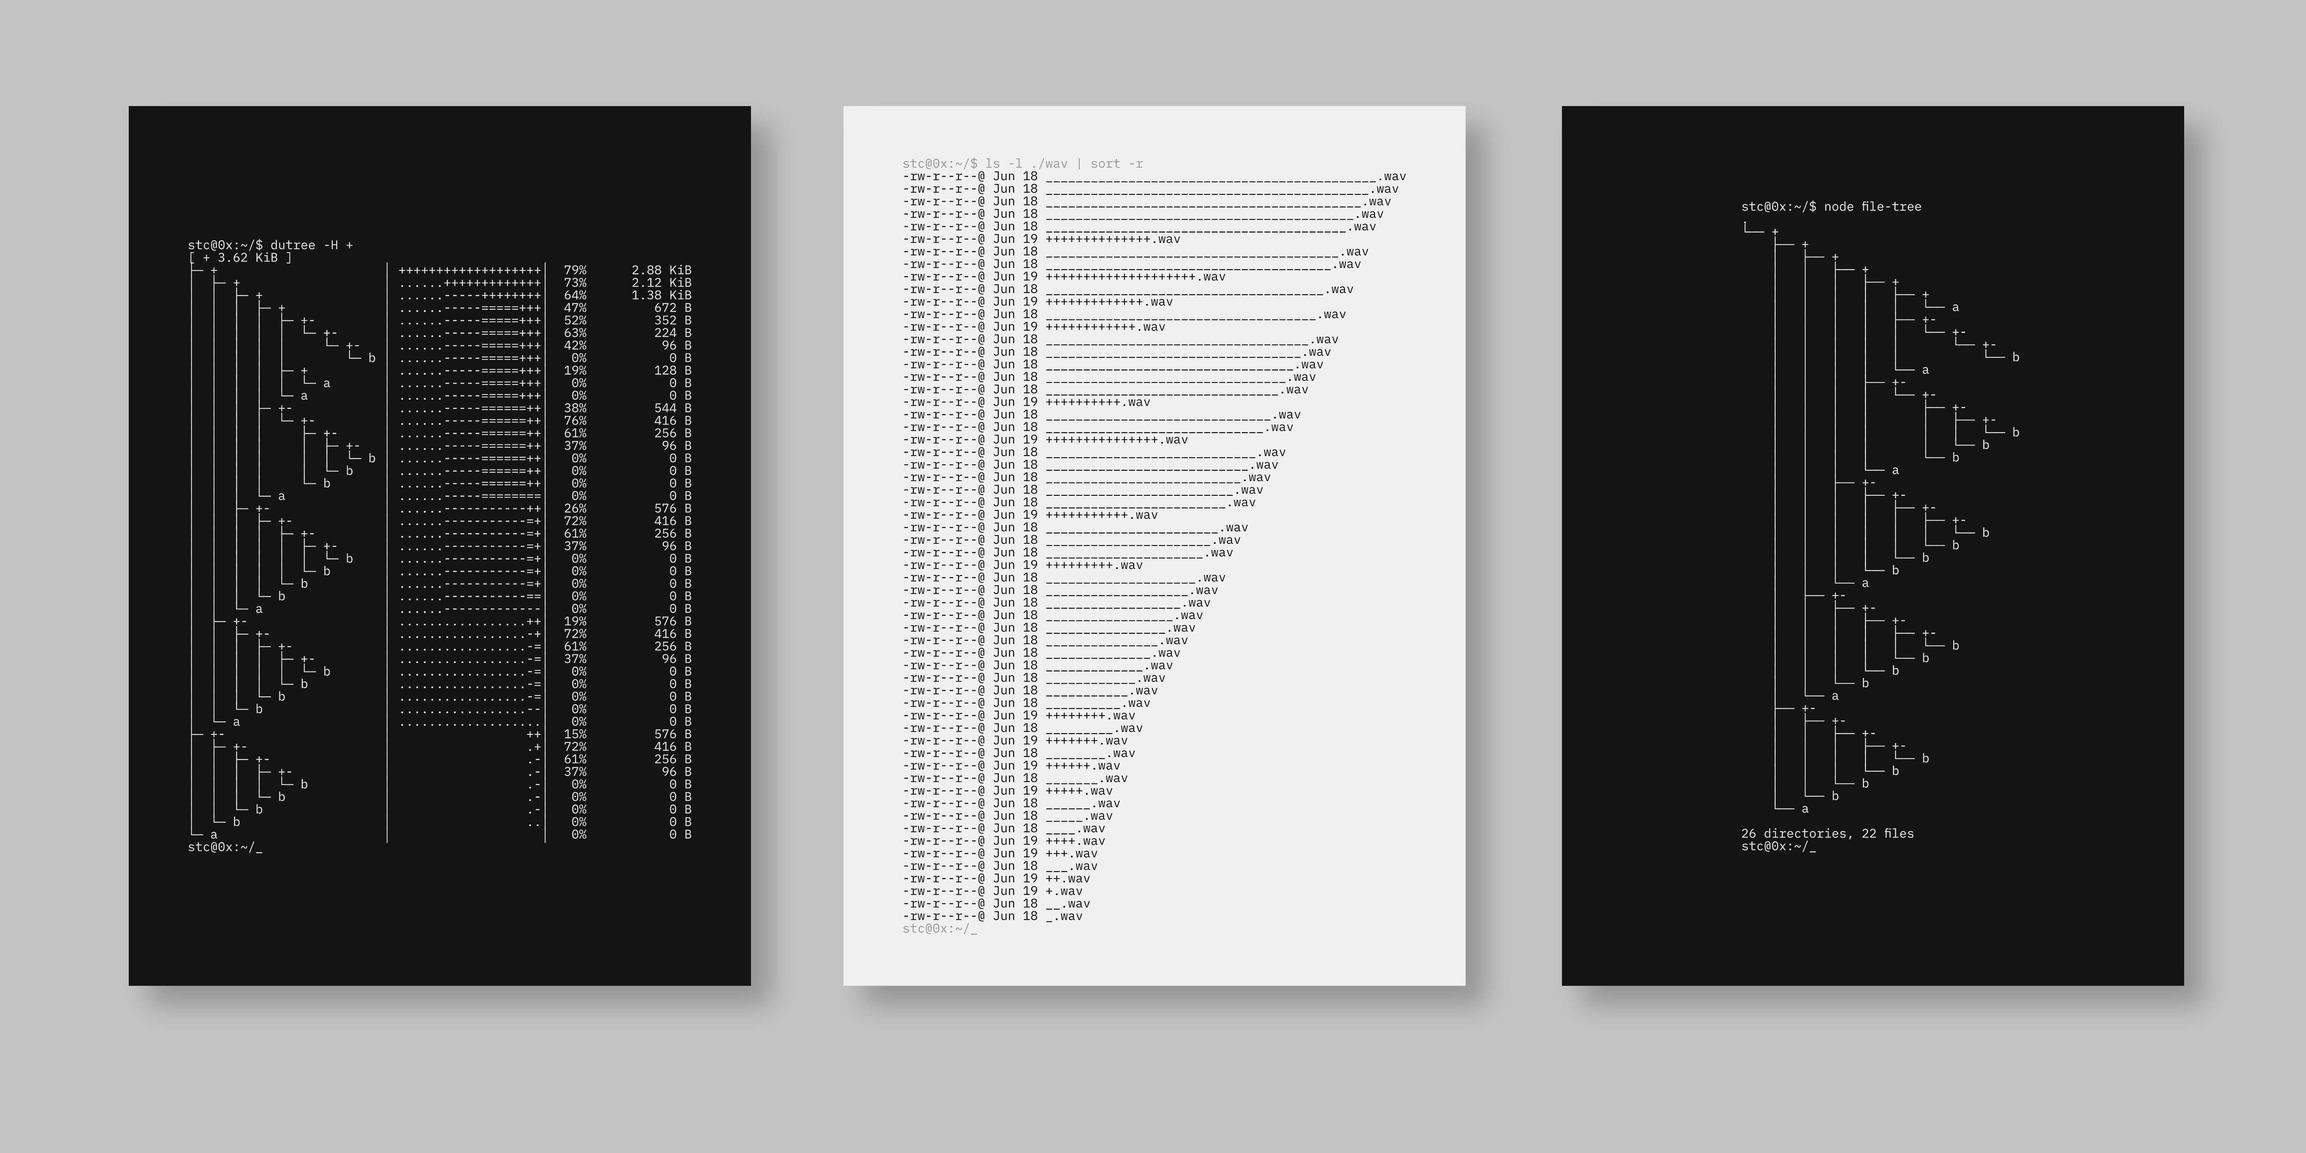
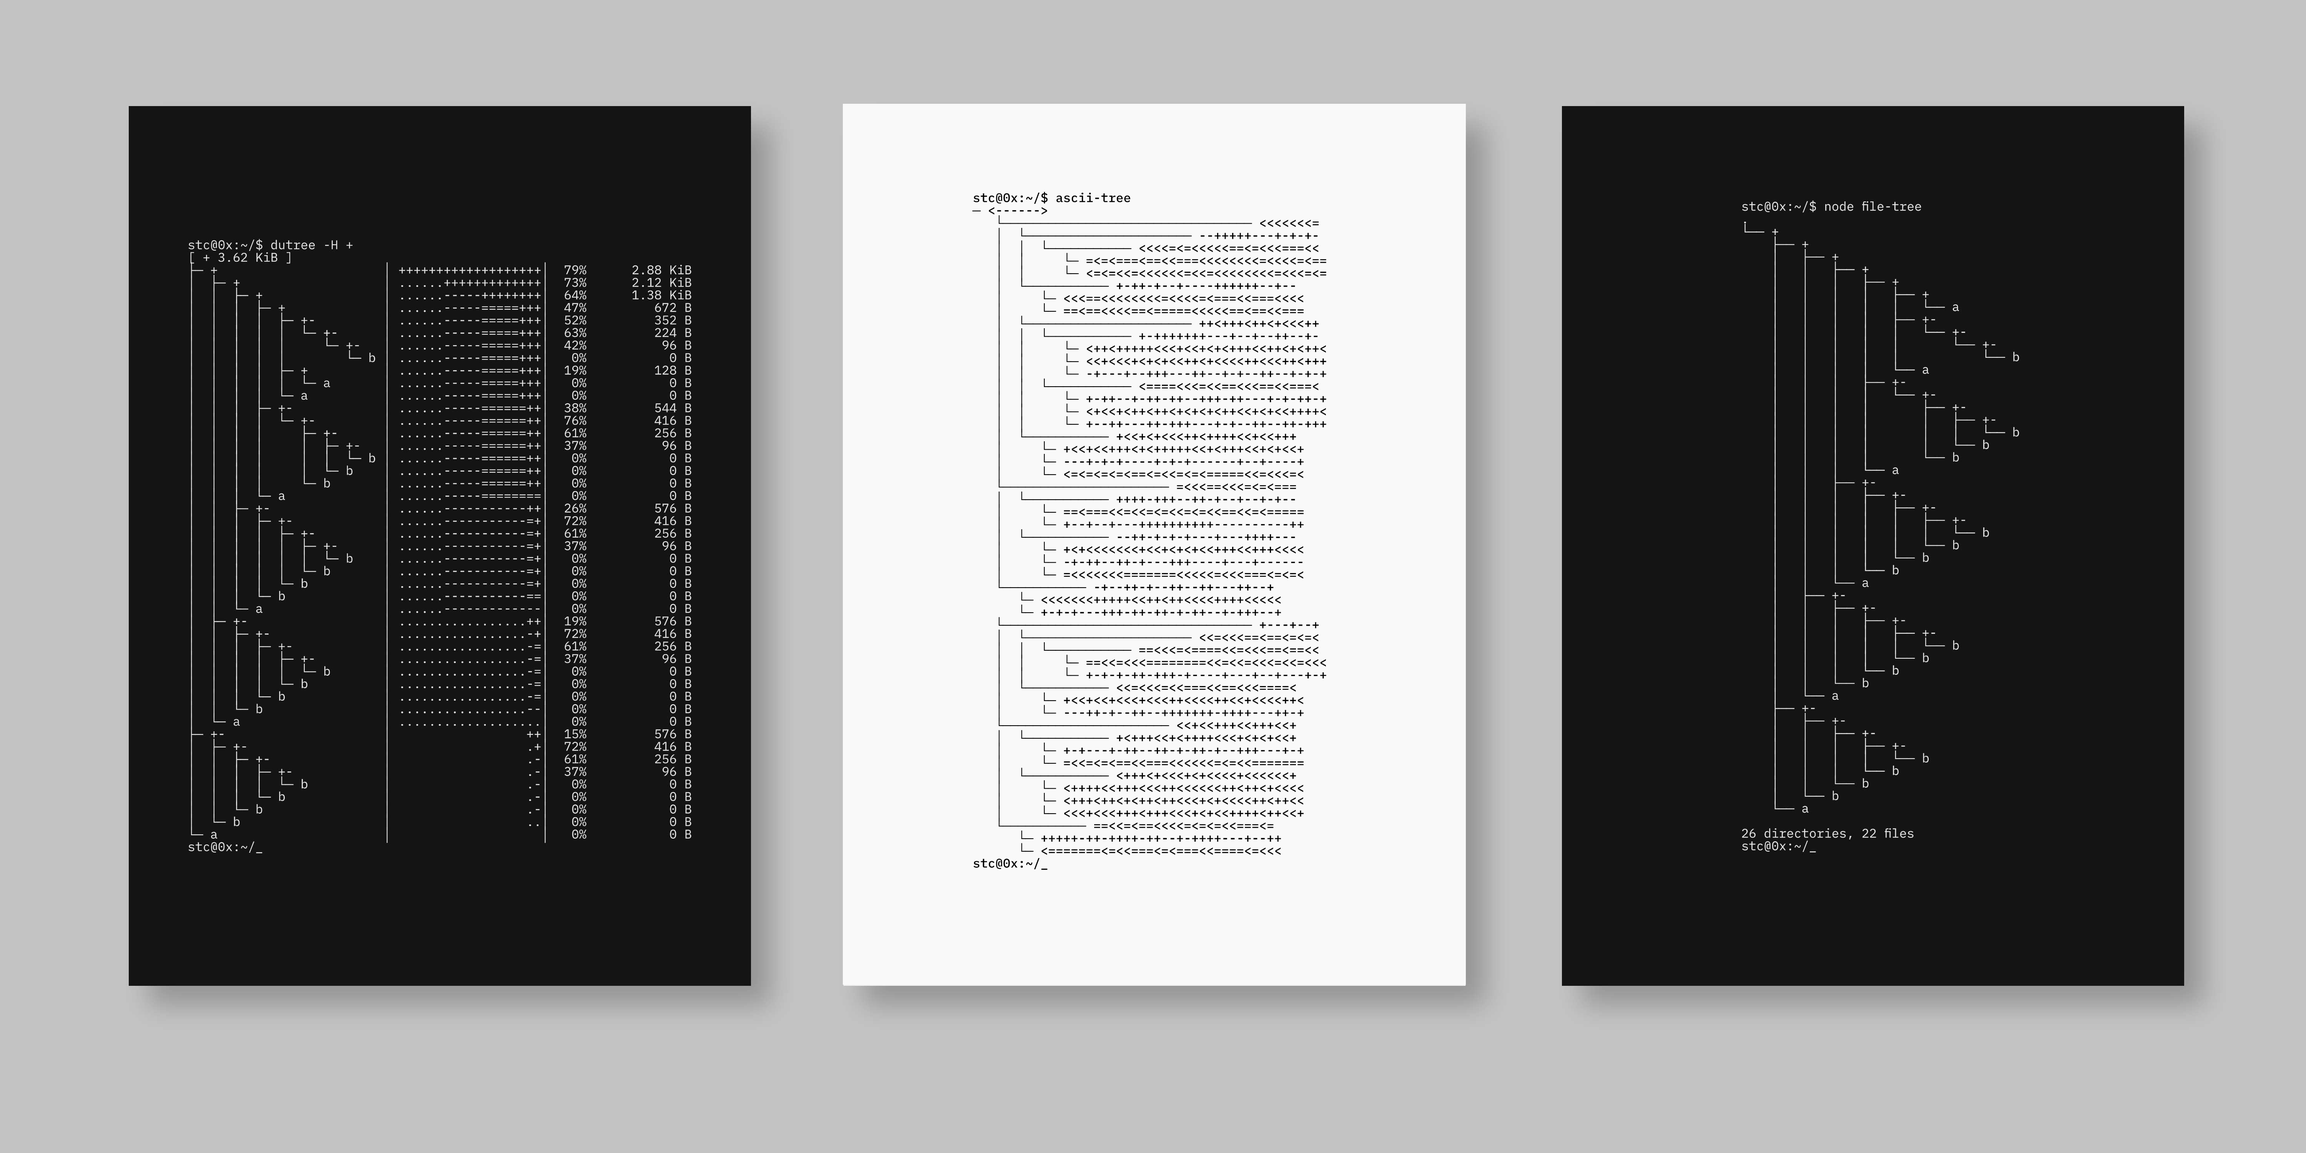
adding list sort

Changed region(s): [[0.4052, 0.124, 0.5922, 0.806]]

diff --git a/index.html b/index.html
@@ -1,183 +1,216 @@
 <!DOCTYPE html>
 <html lang="en">
-  <head>
-    <link rel="icon" type="image/x-icon" href="./assets/favicon.ico">
-    <meta charset="UTF-8">
-    <meta name="viewport" content="width=device-width, initial-scale=1.0">
-    <meta http-equiv="X-UA-Compatible" content="ie=edge">
-    <title>terminal-drawings</title>
-    <link rel="stylesheet" href="./assets/terminal.min.css" />
-    <link rel="stylesheet" href="./assets/normalize.css" />
 
-    <style>
-        .components-grid {
-          display: grid;
-          grid-column-gap: 1.4em;
-          grid-template-columns: auto;
-          grid-template-rows: auto;
-        }
-    
-        .image-grid {
-          display: grid;
-          grid-template-rows: auto;
-          grid-gap: 1em;
-          grid-template-columns: repeat(
-            auto-fit,
-            minmax(calc(var(--page-width) / 12), 1fr)
-          );
-        }
-    
-        @media only screen and (min-width: 70em) {
-          .components-grid {
-            grid-template-columns: 3fr 9fr;
-          }
-    
-          .components-grid aside {
-            position: sticky;
-            top: calc(var(--global-space) * 2);
-          }
-        }
+<head>
+  <link rel="icon" type="image/x-icon" href="./assets/favicon.ico">
+  <meta charset="UTF-8">
+  <meta name="viewport" content="width=device-width, initial-scale=1.0">
+  <meta http-equiv="X-UA-Compatible" content="ie=edge">
+  <title>terminal-drawings</title>
+  <link rel="stylesheet" href="./assets/terminal.min.css" />
+  <link rel="stylesheet" href="./assets/normalize.css" />
 
-        .desc {
-          color:#999;
-        }
-      </style>
-  </head>
-  <body>
-    <div class="container">
-        <div class="terminal-nav">
-            <header class="terminal-logo">
-                <div class="logo terminal-prompt"><a href="http://stc.github.io/terminal-drawings" class="no-style">Terminal Drawings</a></div>
-            </header>
-        </div>
-        <div class="container">
-            <p>Algorithmic plotter artworks, created with a command-line interface</p>
-            <hr />
-            <section>
-                <p><img src="./assets/imgs/triptych-view.jpg"/></p>
-                <p>
-                  Terminal Drawings are a collection of machine drawn images that involve text based simulations to represent associative space. As the computer terminal is a low-level ontological tool for interfacing the real world with computational landscapes, these series resemble the performative mechanics of such gateways. 
-                </p>
-                <p>
-                  Given that digital information doesn't inherently exist in physical space, we can use any structure to illustrate relationships between files, folders, thoughts and other conceptual entities.
-                </p>
-                <hr />
-                <p><img src="./assets/imgs/closeup-view.jpg"/></p>
-                <p>
-                  Artificial memory architectures often grapple with the dichotomy between associative and spatial memory paradigms. While spatial memory frameworks prioritize the organization of information in physical or abstract spatial arrangements, reflecting the human brain's propensity for spatial cognition, associative memory models prioritize the interconnectedness of information, emphasizing the strength of relationships between data points.
-                </p>
-                <p>  
-                  Although the drawings are based on text-based characters and operator symbols from low-level computer code, their structures escape verbal determinations and function as an absorption surface for conventional formulae. Without relying on language, form becomes the defining element— a gesture that shapes hybrid ontologies of existential space.
-                </p>
-                <hr />
-                <p>
-                  <h2>The Collection</h2>
-                  <div class="image-grid">
-                    <div width="auto" height="auto">
-                      <a style="border: none;"><img id="img1" src="./assets/imgs/previews/light/1.jpg"/></a>
-                      <i>Recursive Tree (a)</i> <a onclick="changeImage('img1')">+/-</a><br>
-                      <p class="desc">Reserved</p>
-                    </div>
-                    <div width="auto" height="auto"><a style="border: none;"><img id="img2" src="./assets/imgs/previews/light/2.jpg"/></a>
-                      <i>ASCII Tree (a)</i> <a onclick="changeImage('img2')">+/-</a><br>
-                      <p class="desc">$200 (USDC)</p>
-                    </div>
-                    <div width="auto" height="auto"><a style="border: none;"> <img id="img3" src="./assets/imgs/previews/light/3.jpg"/></a>
-                      <i>Modulo (a)</i> <a onclick="changeImage('img3')">+/-</a><br>
-                      <p class="desc">$200 (USDC)</p>
-                    </div>
-                  </div>
-                  <br>
-                  <div class="image-grid">
-                    <div width="auto" height="auto"><a style="border: none;"> <img id="img4" src="./assets/imgs/previews/light/4.jpg"/></a>
-                      <i>Binary Tree (a)</i> <a onclick="changeImage('img4')">+/-</a><br>
-                      <p class="desc">$200 (USDC)</p>
-                    </div>
-                    <div width="auto" height="auto"><a style="border: none;"> <img id="img5" src="./assets/imgs/previews/light/5.jpg"/></a>
-                      <i>Triangles (a)</i><a onclick="changeImage('img5')">+/-</a><br>
-                      <p class="desc">$200 (USDC)<p>
-                    </div>
-                    <div width="auto" height="auto"><a style="border: none;"> <img id="img6" src="./assets/imgs/previews/light/6.jpg"/></a>
-                      <i>File Tree (a)</i><a onclick="changeImage('img6')">+/-</a><br>
-                      <p class="desc">Reserved<p>
-                    </div>
-                  </div> 
-                  <br> 
-                  <div class="image-grid">
-                    <div width="auto" height="auto"><a style="border: none;"> <img id="img7" src="./assets/imgs/previews/light/7.jpg"/></a>
-                      <i>Binary Tree (a)</i><a onclick="changeImage('img7')">+/-</a><br>
-                      <p class="desc">$200 (USDC)<p>
-                    </div>
-                    <div width="auto" height="auto"><a style="border: none;"> <img id="img8" src="./assets/imgs/previews/light/8.jpg"/></a>
-                      <i>Dutree (a)</i><a onclick="changeImage('img8')">+/-</a><br>
-                      <p class="desc">Reserved<p>
-                    </div>
-                    <div width="auto" height="auto">
-                      <img id="img9" src="./assets/imgs/previews/light/9.jpg"/>
-                      <p class="desc">...</p><br>
-                    </div>
-                 </div> 
-                </p>
-                <hr />
-                <p>
-                  All pieces are created with a command-line interface and available as unique editions of hand signed physical plotter drawings + corresponding NFTs on Ethereum (Base). The NFT (Certificate of Authenticity) acts as provenance for the physical piece shipped, any secondary sale of a work must include the physical. 
-                </p>
-                <p>  
-                  Available layouts
-                </p>
-                <p>  
-                  - Black ink on light grey (perla) Tiziano (160g/m2) paper<br>
-                  - Silver ink on black photo cardboard (230g/m2)
-                </p>
-                <p>  
-                  Size: 210 x 297 mm (A4)
-                </p>
-                <hr />
-                <p>
-                  Explore the complete series on the blockchain on <a href="https://opensea.io/collection/terminaldrawings">OpenSea</a>. The collection is currently available for private sale only. If you're interested in a specific piece, write a DM on <a href="https://x.com/_stc">X (Twitter)</a>,  <a href="https://warpcast.com/stc">Farcaster</a> or <a href="https://www.instagram.com/0xstc/">Instagram</a>.  
-                </p>
-                <br>
-                <p>© Agoston Nagy 2024</p>
-            </section>
-        </div>
+  <style>
+    .components-grid {
+      display: grid;
+      grid-column-gap: 1.4em;
+      grid-template-columns: auto;
+      grid-template-rows: auto;
+    }
+
+    .image-grid {
+      display: grid;
+      grid-template-rows: auto;
+      grid-gap: 1em;
+      grid-template-columns: repeat(auto-fit,
+          minmax(calc(var(--page-width) / 12), 1fr));
+    }
+
+    @media only screen and (min-width: 70em) {
+      .components-grid {
+        grid-template-columns: 3fr 9fr;
+      }
+
+      .components-grid aside {
+        position: sticky;
+        top: calc(var(--global-space) * 2);
+      }
+    }
+
+    .desc {
+      color: #999;
+    }
+  </style>
+</head>
+
+<body>
+  <div class="container">
+    <div class="terminal-nav">
+      <header class="terminal-logo">
+        <div class="logo terminal-prompt"><a href="http://stc.github.io/terminal-drawings" class="no-style">Terminal
+            Drawings</a></div>
+      </header>
     </div>
-    <script>
-      function changeImage(id) {
-            const img = document.getElementById(id);
-            const path = './assets/imgs/previews';
-            img.src.includes('dark') ? img.src = path + '/light/' + split_at_index(id,3) + '.jpg' : img.src = path + '/dark/' + split_at_index(id,3) + '.jpg';
+    <div class="container">
+      <p>Algorithmic plotter artworks, created with a command-line interface</p>
+      <hr />
+      <section>
+        <p><img src="./assets/imgs/triptych-view.jpg" /></p>
+        <p>
+          Terminal Drawings are a collection of machine drawn images that involve text based simulations to represent
+          associative space. As the computer terminal is a low-level ontological tool for interfacing the real world
+          with computational landscapes, these series resemble the performative mechanics of such gateways.
+        </p>
+        <p>
+          Given that digital information doesn't inherently exist in physical space, we can use any structure to
+          illustrate relationships between files, folders, thoughts and other conceptual entities.
+        </p>
+        <hr />
+        <p><img src="./assets/imgs/closeup-view.jpg" /></p>
+        <p>
+          Artificial memory architectures often grapple with the dichotomy between associative and spatial memory
+          paradigms. While spatial memory frameworks prioritize the organization of information in physical or abstract
+          spatial arrangements, reflecting the human brain's propensity for spatial cognition, associative memory models
+          prioritize the interconnectedness of information, emphasizing the strength of relationships between data
+          points.
+        </p>
+        <p>
+          Although the drawings are based on text-based characters and operator symbols from low-level computer code,
+          their structures escape verbal determinations and function as an absorption surface for conventional formulae.
+          Without relying on language, form becomes the defining element— a gesture that shapes hybrid ontologies of
+          existential space.
+        </p>
+        <hr />
+        <p>
+        <h2>The Collection</h2>
+        <div class="image-grid">
+          <div width="auto" height="auto">
+            <a style="border: none;"><img id="img1" src="./assets/imgs/previews/light/1.jpg" /></a>
+            <i>Recursive Tree (a)</i> <a onclick="changeImage('img1')">+/-</a><br>
+            <p class="desc">Reserved</p>
+          </div>
+          <div width="auto" height="auto"><a style="border: none;"><img id="img2"
+                src="./assets/imgs/previews/light/2.jpg" /></a>
+            <i>ASCII Tree (a)</i> <a onclick="changeImage('img2')">+/-</a><br>
+            <p class="desc">$200 (USDC)</p>
+          </div>
+          <div width="auto" height="auto"><a style="border: none;"> <img id="img3"
+                src="./assets/imgs/previews/light/3.jpg" /></a>
+            <i>Modulo (a)</i> <a onclick="changeImage('img3')">+/-</a><br>
+            <p class="desc">$200 (USDC)</p>
+          </div>
+        </div>
+        <br>
+        <div class="image-grid">
+          <div width="auto" height="auto"><a style="border: none;"> <img id="img4"
+                src="./assets/imgs/previews/light/4.jpg" /></a>
+            <i>Binary Tree (a)</i> <a onclick="changeImage('img4')">+/-</a><br>
+            <p class="desc">$200 (USDC)</p>
+          </div>
+          <div width="auto" height="auto"><a style="border: none;"> <img id="img5"
+                src="./assets/imgs/previews/light/5.jpg" /></a>
+            <i>Triangles (a)</i><a onclick="changeImage('img5')">+/-</a><br>
+            <p class="desc">$200 (USDC)
+            <p>
+          </div>
+          <div width="auto" height="auto"><a style="border: none;"> <img id="img6"
+                src="./assets/imgs/previews/light/6.jpg" /></a>
+            <i>File Tree (a)</i><a onclick="changeImage('img6')">+/-</a><br>
+            <p class="desc">$200 (USDC)
+            <p>
+          </div>
+        </div>
+        <br>
+        <div class="image-grid">
+          <div width="auto" height="auto"><a style="border: none;"> <img id="img7"
+                src="./assets/imgs/previews/light/7.jpg" /></a>
+            <i>Binary Tree (a)</i><a onclick="changeImage('img7')">+/-</a><br>
+            <p class="desc">$200 (USDC)
+            <p>
+          </div>
+          <div width="auto" height="auto"><a style="border: none;"> <img id="img8"
+                src="./assets/imgs/previews/light/8.jpg" /></a>
+            <i>Dutree (a)</i><a onclick="changeImage('img8')">+/-</a><br>
+            <p class="desc">Reserved
+            <p>
+          </div>
+          <div width="auto" height="auto"><a style="border: none;"> <img id="img9"
+            src="./assets/imgs/previews/light/9.jpg" /></a>
+            <i>List Sort (a)</i><a onclick="changeImage('img8')">+/-</a><br>
+            <p class="desc">Reserved
+            <p>
+          </div>
+        </div>
+        </p>
+        <hr />
+        <p>
+          All pieces are created with a command-line interface and available as unique editions of hand signed physical
+          plotter drawings + corresponding NFTs on Ethereum (Base). The NFT (Certificate of Authenticity) acts as
+          provenance for the physical piece shipped, any secondary sale of a work must include the physical.
+        </p>
+        <p>
+          Available layouts
+        </p>
+        <p>
+          - Black ink on light grey (perla) Tiziano (160g/m2) paper<br>
+          - Silver ink on black photo cardboard (230g/m2)
+        </p>
+        <p>
+          Size: 210 x 297 mm (A4)
+        </p>
+        <hr />
+        <p>
+          Explore the complete series on the blockchain on <a
+            href="https://opensea.io/collection/terminaldrawings">OpenSea</a>. The collection is currently available for
+          private sale only. If you're interested in a specific piece, write a DM on <a href="https://x.com/_stc">X
+            (Twitter)</a>, <a href="https://warpcast.com/stc">Farcaster</a> or <a
+            href="https://www.instagram.com/0xstc/">Instagram</a>.
+        </p>
+        <br>
+        <p>© Agoston Nagy 2024</p>
+      </section>
+    </div>
+  </div>
+  <script>
+    function changeImage(id) {
+      const img = document.getElementById(id);
+      const path = './assets/imgs/previews';
+      img.src.includes('dark') ? img.src = path + '/light/' + split_at_index(id, 3) + '.jpg' : img.src = path + '/dark/' + split_at_index(id, 3) + '.jpg';
+    }
+    function split_at_index(value, index) {
+      return value.substring(index);
+    }
+    document.querySelectorAll('img').forEach(img => {
+      if (img.id) {
+        img.addEventListener('click', () => {
+          const fullScreen = document.createElement('div');
+          fullScreen.style.position = 'fixed';
+          fullScreen.style.top = '0';
+          fullScreen.style.left = '0';
+          fullScreen.style.width = '100vw';
+          fullScreen.style.height = '100vh';
+          fullScreen.style.background = 'rgba(0, 0, 0, 0.4)';
+          fullScreen.style.display = 'flex';
+          fullScreen.style.justifyContent = 'center';
+          fullScreen.style.alignItems = 'center';
+          fullScreen.style.zIndex = '9999';
+
+          const fullImg = document.createElement('img');
+          fullImg.src = img.src;
+          fullImg.style.maxWidth = '90%';
+          fullImg.style.maxHeight = '90%';
+          fullImg.style.cursor = 'zoom-out';
+
+          fullScreen.appendChild(fullImg);
+          document.body.appendChild(fullScreen);
+
+          fullScreen.addEventListener('click', () => {
+            document.body.removeChild(fullScreen);
+          });
+        });
       }
-      function split_at_index(value, index) {
-        return value.substring(index);
-      }
-      document.querySelectorAll('img').forEach(img => {
-  img.addEventListener('click', () => {
-    const fullScreen = document.createElement('div');
-    fullScreen.style.position = 'fixed';
-    fullScreen.style.top = '0';
-    fullScreen.style.left = '0';
-    fullScreen.style.width = '100vw';
-    fullScreen.style.height = '100vh';
-    fullScreen.style.background = 'rgba(0, 0, 0, 0.9)';
-    fullScreen.style.display = 'flex';
-    fullScreen.style.justifyContent = 'center';
-    fullScreen.style.alignItems = 'center';
-    fullScreen.style.zIndex = '9999';
-
-    const fullImg = document.createElement('img');
-    fullImg.src = img.src;
-    fullImg.style.maxWidth = '90%';
-    fullImg.style.maxHeight = '90%';
-    fullImg.style.cursor = 'zoom-out';
-
-    fullScreen.appendChild(fullImg);
-    document.body.appendChild(fullScreen);
-
-    fullScreen.addEventListener('click', () => {
-      document.body.removeChild(fullScreen);
     });
-  });
-});
   </script>
-  </body>
+</body>
+
 </html>
